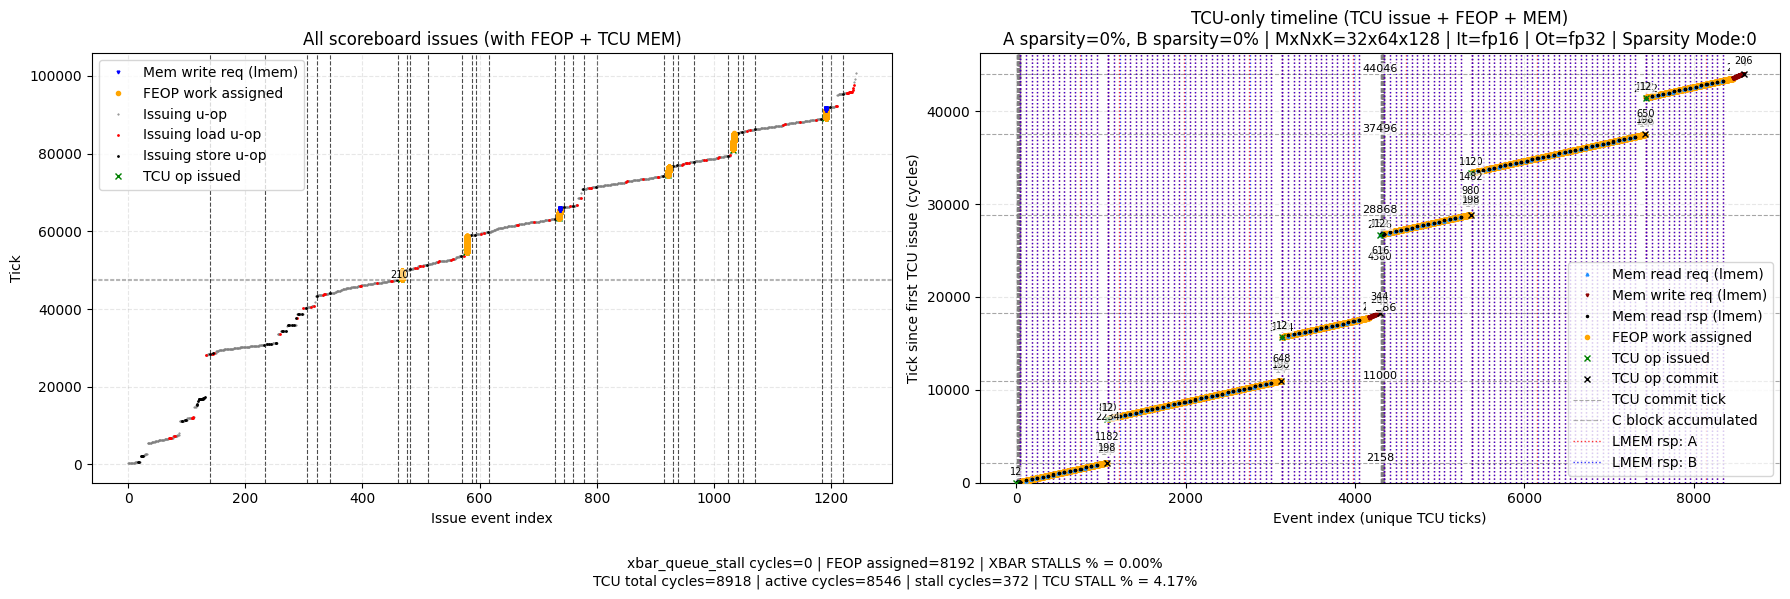
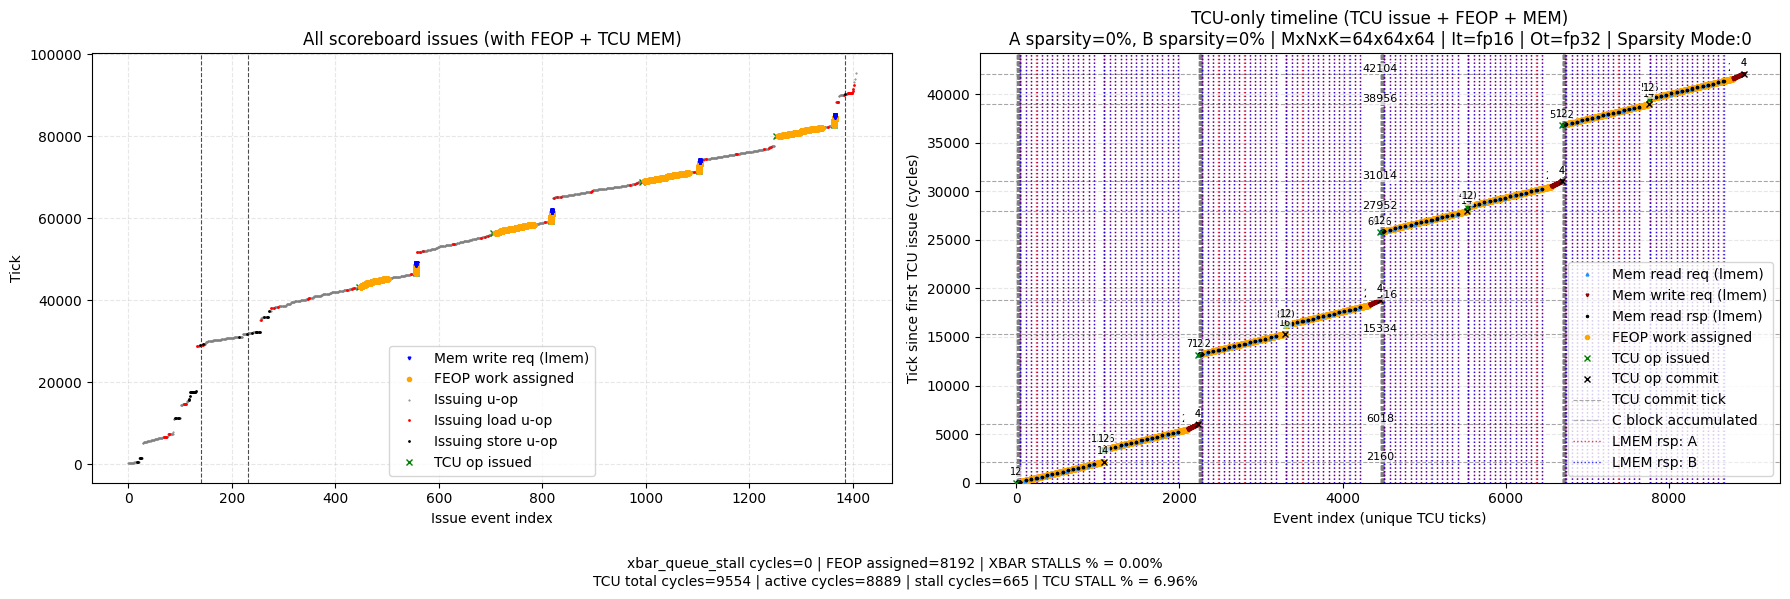
made mma_op async in kernel - working for 64x64x64, 32x64x128 s0 only

diff --git a/tests/regression/sgemm_tcu_op/kernel.cpp b/tests/regression/sgemm_tcu_op/kernel.cpp
@@ -119,14 +119,13 @@ extern "C" void kernel_main(kernel_arg_t *__UNIFORM__ arg) {
   const uint32_t block_tile_id = blockIdx.y * gridDim.x + blockIdx.x;
   const uint32_t warp_tile_id = block_tile_id * warps_per_group + local_warp;
   const bool active_warp = (warp_tile_id < total_tiles);
-  vortex::barrier c_tile_bar(local_warp, 1);
-  vortex::barrier ab_tile_bar[2] = {
+  vortex::barrier load_bar[2] = {
+      vortex::barrier(local_warp, 1),
       vortex::barrier(warps_per_group + local_warp, 1),
-      vortex::barrier(2 * warps_per_group + local_warp, 1),
   };
   vortex::barrier tcu_bar[2] = {
+      vortex::barrier(2 * warps_per_group + local_warp, 1),
       vortex::barrier(3 * warps_per_group + local_warp, 1),
-      vortex::barrier(4 * warps_per_group + local_warp, 1),
   };
 
   const uint32_t tile_row = (tiles_n == 0) ? 0 : (warp_tile_id / tiles_n) * tile_M;
@@ -220,14 +219,21 @@ extern "C" void kernel_main(kernel_arg_t *__UNIFORM__ arg) {
       const uint32_t* mma_C = reinterpret_cast<const uint32_t *>(C_lmem);
       const uint32_t* pC_tile = pC + tile_id * tileC_regs;
 
-      if (active_warp && lane0) {mma_D[0] = MARKER;}
-      if (active_warp && is_dxa_quad) {
-        vx_dxa_issue_2d_wg(kDescC, c_tile_bar.id(), C_lmem, 0, tile_id);
-      }
-      c_tile_bar.arrive_and_wait();
-      if (active_warp && lane0) {mma_D[0] = MARKER;}
-
       if constexpr (kDense) {
+        bool have_pending_mma = false;
+        bool have_inflight_mma = false;
+        uint32_t pending_stage = 0;
+        uint32_t inflight_stage = 0;
+        uintptr_t pending_rs1_val = 0;
+        uintptr_t pending_rs2_val = 0;
+
+        // if (active_warp && lane0) {mma_D[0] = MARKER;}
+        if (active_warp && is_dxa_quad) {
+          vx_dxa_issue_2d_wg(kDescC, load_bar[0].id(), C_lmem, 0, tile_id);
+        }
+        // load_bar[0].arrive_and_wait();
+        // if (active_warp && lane0) {mma_D[0] = MARKER;}
+
         static constexpr uint32_t kDenseLaunches =
             1 + ((K > tile_K) ? div_up_constexpr(K - tile_K, 2 * tile_K) : 0);
 #pragma unroll
@@ -275,20 +281,31 @@ extern "C" void kernel_main(kernel_arg_t *__UNIFORM__ arg) {
 
           const uint32_t flags_chunk = (((k_offset == 0) ? 1u : 0u) << 1) | (((k_offset + curr_k) == K) ? 1u : 0u);
 
-          if (active_warp && lane0) {mma_D[0] = MARKER;}
+          // if (active_warp && lane0) {mma_D[0] = MARKER;}
           if (active_warp && is_dxa_quad) {
-            vx_dxa_issue_2d_wg(kDescA, ab_tile_bar[stage].id(), chunk_A, 0, tile_row_idx * tiles_k + k_tile_idx);
+            vx_dxa_issue_2d_wg(kDescA, load_bar[stage].id(), chunk_A, 0, tile_row_idx * tiles_k + k_tile_idx);
             if (has_second_k_tile) {
-              vx_dxa_issue_2d_wg(kDescA, ab_tile_bar[stage].id(), chunk_A_elems_hi, 0,
+              vx_dxa_issue_2d_wg(kDescA, load_bar[stage].id(), chunk_A_elems_hi, 0,
                                  tile_row_idx * tiles_k + k_tile_idx + 1);
             }
-            vx_dxa_issue_2d_wg(kDescB, ab_tile_bar[stage].id(), chunk_B, 0, tile_col_idx * tiles_k + k_tile_idx);
+            vx_dxa_issue_2d_wg(kDescB, load_bar[stage].id(), chunk_B, 0, tile_col_idx * tiles_k + k_tile_idx);
             if (has_second_k_tile) {
-              vx_dxa_issue_2d_wg(kDescB, ab_tile_bar[stage].id(), chunk_B_elems_hi, 0,
+              vx_dxa_issue_2d_wg(kDescB, load_bar[stage].id(), chunk_B_elems_hi, 0,
                                  tile_col_idx * tiles_k + k_tile_idx + 1);
             }
           }
-          if (active_warp && lane0) {mma_D[0] = MARKER;}
+          // if (active_warp && lane0) {mma_D[0] = MARKER;}
+
+          if (have_pending_mma) {
+            if (have_inflight_mma) {
+              tcu_bar[inflight_stage].arrive_and_wait();
+            }
+            load_bar[pending_stage].arrive_and_wait();
+            ctx::mma_op(pending_rs1_val, pending_rs2_val);
+            inflight_stage = pending_stage;
+            have_inflight_mma = true;
+            // if (active_warp && (vx_warp_id() == 0) && lane0) {C_lmem[0] = MARKER;}
+          }
 
           if (gtid == 0) {
             rs1_val = reinterpret_cast<uintptr_t>(chunk_A);
@@ -314,13 +331,29 @@ extern "C" void kernel_main(kernel_arg_t *__UNIFORM__ arg) {
             rs2_val = flags_chunk;
           }
 
-          if (active_warp && lane0) {mma_D[0] = PRE_TCU_MARKER;}
-          ab_tile_bar[stage].arrive_and_wait();
-          ctx::mma_op(rs1_val, rs2_val);
-          tcu_bar[stage].arrive_and_wait();
-          if (active_warp && (vx_warp_id() == 0) && lane0) {C_lmem[0] = MARKER;}
+          // if (active_warp && lane0) {mma_D[0] = PRE_TCU_MARKER;}
+          pending_stage = stage;
+          pending_rs1_val = rs1_val;
+          pending_rs2_val = rs2_val;
+          have_pending_mma = true;
+        }
+
+        if (have_pending_mma) {
+          if (have_inflight_mma) {
+            tcu_bar[inflight_stage].arrive_and_wait();
+          }
+          load_bar[pending_stage].arrive_and_wait();
+          ctx::mma_op(pending_rs1_val, pending_rs2_val);
+          tcu_bar[pending_stage].arrive_and_wait();
+          // if (active_warp && (vx_warp_id() == 0) && lane0) {C_lmem[0] = MARKER;}
         }
       } else {
+        if (active_warp && lane0) {mma_D[0] = MARKER;}
+        if (active_warp && is_dxa_quad) {
+          vx_dxa_issue_2d_wg(kDescC, load_bar[0].id(), C_lmem, 0, tile_id);
+        }
+        load_bar[0].arrive_and_wait();
+        if (active_warp && lane0) {mma_D[0] = MARKER;}
 
         static constexpr uint32_t kConstTilesK = K / tile_K;
 #pragma unroll
